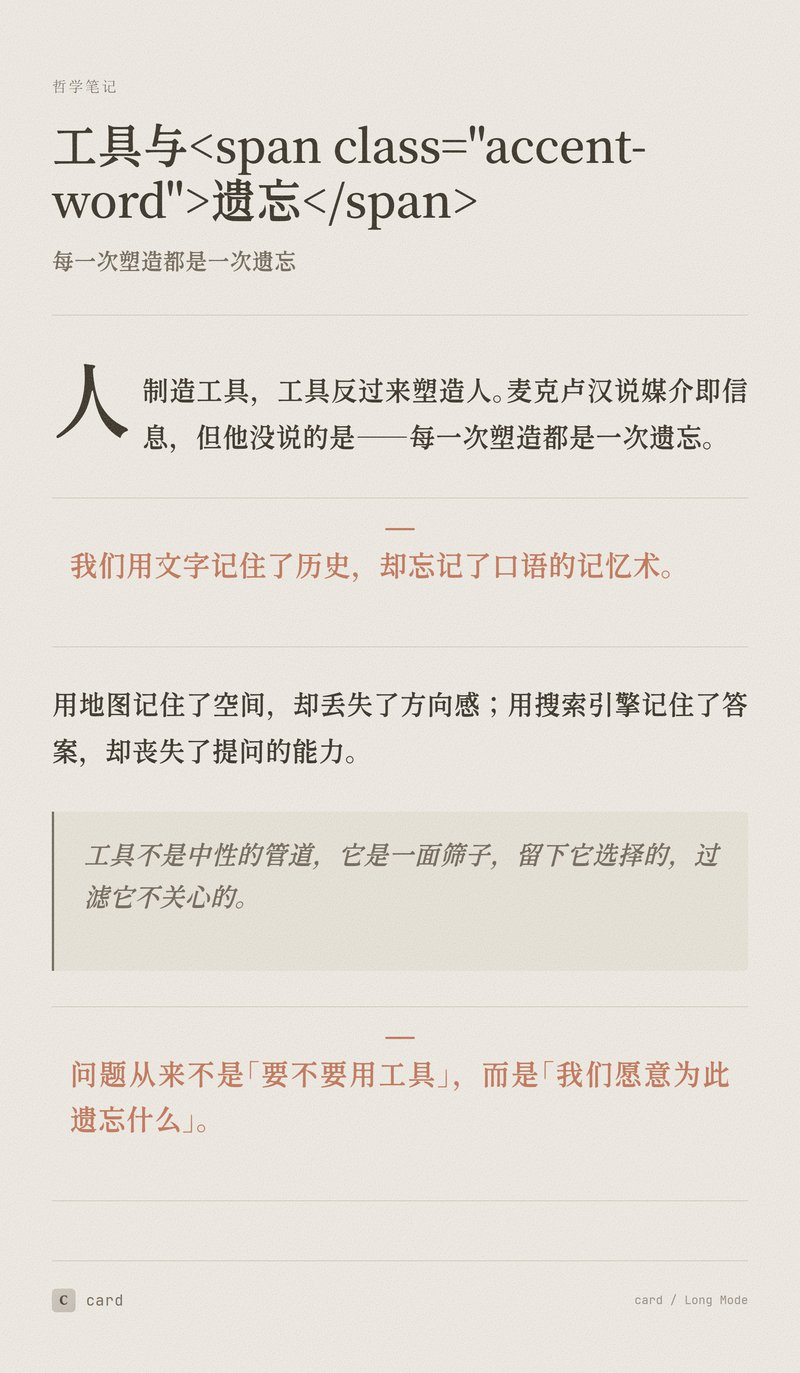
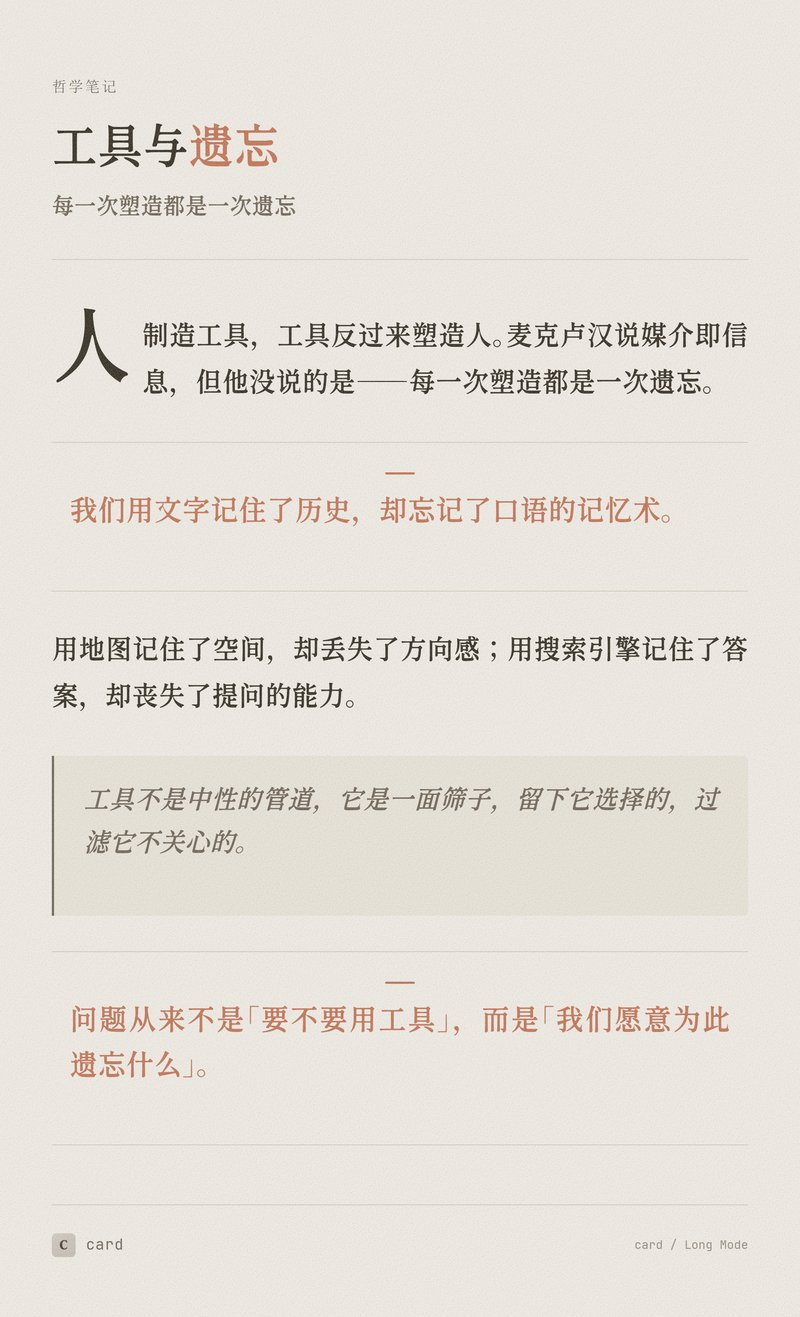
fix(render): long mode title accent-word tags shown as literal text
escapeHtml() on title field escaped <span class="accent-word"> into
&lt;span&gt; causing tags to render as visible text. Use escapePhrase()
instead, which preserves accent spans while escaping dangerous HTML.
Updated escapePhrase regex to handle accent[-\w]* class variants.

diff --git a/scripts/lib/escape.js b/scripts/lib/escape.js
@@ -22,10 +22,10 @@ function escapeHtml(str) {
 function escapePhrase(text) {
   if (!text) return '';
   // Split on allowed tags, escape the text segments between them
-  const parts = text.split(/(<br\s*\/?>|<span\s+class=["']accent["']>|<\/span>)/i);
+  const parts = text.split(/(<br\s*\/?>|<span\s+class=["']accent[-\w]*["']>|<\/span>)/i);
   return parts.map((part, i) => {
     if (/^<br\s*\/?>$/i.test(part)) return '<br>';
-    if (/^<span\s+class=["']accent["']>$/i.test(part)) return '<span class="accent">';
+    if (/^<span\s+class=["']accent[-\w]*["']>$/i.test(part)) return part;
     if (/^<\/span>$/i.test(part)) return '</span>';
     return escapeHtml(part);
   }).join('');

diff --git a/scripts/renderers/long.js b/scripts/renderers/long.js
@@ -6,7 +6,7 @@
 
 const fs = require('fs');
 const path = require('path');
-const { escapeHtml } = require('../lib/escape');
+const { escapeHtml, escapePhrase } = require('../lib/escape');
 const { getDesign } = require('../lib/designs');
 
 const FONT_DIR = path.resolve(__dirname, '../../assets/fonts');
@@ -95,7 +95,7 @@ function render(input, outputHtmlPath) {
 
   // Fill placeholders
   template = template.replaceAll('{{KICKER}}', escapeHtml(input.kicker || ''));
-  template = template.replaceAll('{{TITLE}}', escapeHtml(input.title || ''));
+  template = template.replaceAll('{{TITLE}}', escapePhrase(input.title || ''));
   template = template.replaceAll('{{SUBTITLE}}', escapeHtml(input.subtitle || ''));
   template = template.replaceAll('{{BODY_HTML}}', renderBody(input.body));
   template = template.replaceAll('{{SOURCE_LINE}}', input.source ? `<span class="source-line">${escapeHtml(input.source)}</span>` : '');